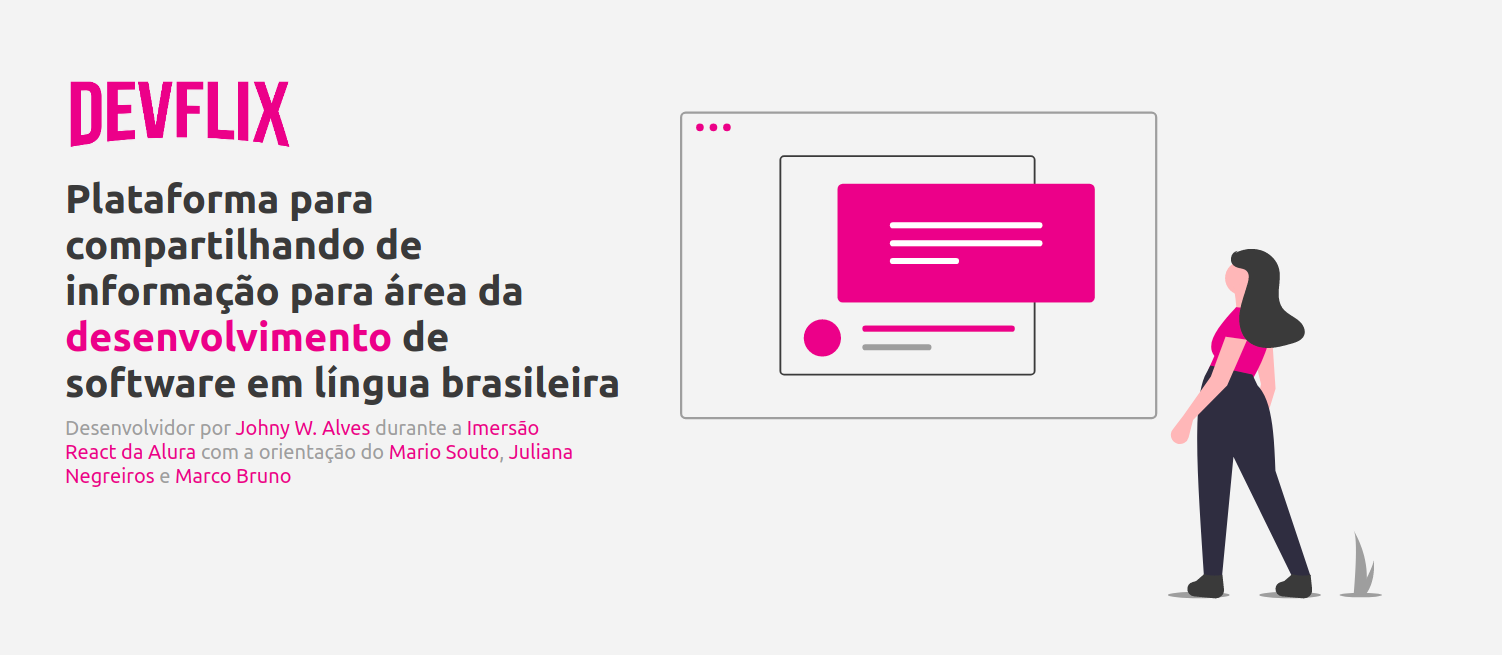
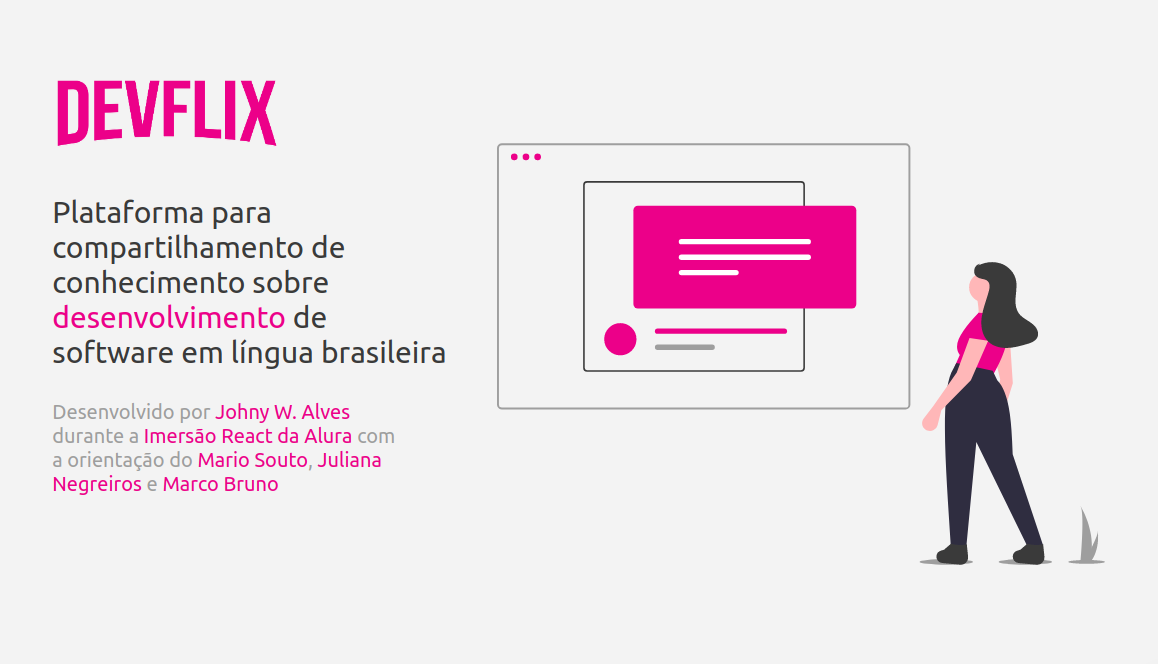
:speech_balloon: Ajuste dos texto da home

diff --git a/src/components/Menu/styles.tsx b/src/components/Menu/styles.tsx
@@ -1,4 +1,4 @@
-import styled, { css } from 'styled-components'
+import styled from 'styled-components'
 
 export const Nav = styled.nav`
   width: 100%;
@@ -66,31 +66,4 @@ export const Logo = styled.img`
     height: 4rem;
     margin: 1rem 0;
   }
-`
-
-export const Search = styled.input`
-  color: var(--black);
-  background-color: transparent;
-  font-size: 1.8rem;
-  padding: 0.5rem;
-  border: none;
-  border-bottom: 2px solid var(--black);
-  opacity: 0.5;
-  padding-right: 4rem;
-
-  &:focus {
-    border-bottom-color: var(--primary);
-    opacity: 1;
-  }
-
-  ${({ value }: HTMLInputElement) => {
-    const hasValue = value && value.length > 0
-    return (
-      hasValue &&
-      css`
-        border-bottom-color: var(--primary);
-        opacity: 1;
-      `
-    )
-  }}
 `

diff --git a/src/components/Menu/components/Search/IconSearch.tsx b/src/components/Menu/components/Search/IconSearch.tsx
@@ -1,0 +1,23 @@
+type IconSearchProps = {
+  className?: string
+}
+
+const IconSearch = ({ className }: IconSearchProps) => (
+  <svg
+    aria-hidden="true"
+    focusable="false"
+    data-prefix="fas"
+    data-icon="search"
+    role="img"
+    xmlns="http://www.w3.org/2000/svg"
+    viewBox="0 0 512 512"
+    className={className}
+  >
+    <path
+      fill="currentColor"
+      d="M505 442.7L405.3 343c-4.5-4.5-10.6-7-17-7H372c27.6-35.3 44-79.7 44-128C416 93.1 322.9 0 208 0S0 93.1 0 208s93.1 208 208 208c48.3 0 92.7-16.4 128-44v16.3c0 6.4 2.5 12.5 7 17l99.7 99.7c9.4 9.4 24.6 9.4 33.9 0l28.3-28.3c9.4-9.4 9.4-24.6.1-34zM208 336c-70.7 0-128-57.2-128-128 0-70.7 57.2-128 128-128 70.7 0 128 57.2 128 128 0 70.7-57.2 128-128 128z"
+    ></path>
+  </svg>
+)
+
+export default IconSearch

diff --git a/src/components/Menu/components/Search/styles.tsx b/src/components/Menu/components/Search/styles.tsx
@@ -1,0 +1,33 @@
+import styled from 'styled-components'
+
+import IconSearch from './IconSearch'
+
+export const Container = styled.div`
+  position: relative;
+  opacity: 0.5;
+
+  &:focus {
+    border-bottom-color: var(--primary);
+    opacity: 1;
+  }
+`
+
+export const Input = styled.input`
+  color: var(--black);
+  background-color: transparent;
+  font-size: 1.8rem;
+  padding: 0.5rem;
+  border: none;
+  border-radius: 0.25rem;
+  border-bottom: 2px solid var(--black);
+  padding-right: 4rem;
+`
+
+export const IconSearchInput = styled(IconSearch)`
+  color: var(--black);
+  position: absolute;
+  top: 0.5rem;
+  right: 0.5rem;
+  height: 1.75rem;
+  width: 1.75rem;
+`

diff --git a/src/components/BannerFronthead/index.tsx b/src/components/BannerFronthead/index.tsx
@@ -8,11 +8,11 @@ const BannerFronthead = () => {
       <Explain>
         <Logo id="logo_forehead" src="/img/logo.png" />
         <Title>
-          Plataforma para compartilhando de informação para área da{' '}
+          Plataforma para compartilhamento de conhecimento sobre{' '}
           <span>desenvolvimento</span> de software em língua brasileira
         </Title>
         <Description>
-          Desenvolvidor por{' '}
+          Desenvolvido por{' '}
           <a href="https://johnywalves.com.br" target="_blank" rel="noreferrer">
             Johny W. Alves
           </a>{' '}

diff --git a/src/components/Menu/index.tsx b/src/components/Menu/index.tsx
@@ -4,6 +4,7 @@ import Link from 'next/link'
 
 import Button from 'components/Button'
 
+//import Search from './components/Search'
 import { Nav, Logo, Commands, Astro } from './styles'
 
 type MenuProps = {
@@ -60,7 +61,7 @@ const Menu = ({ router }: MenuProps) => {
           viewForehead={viewForehead}
         />
       </Link>
-      {/*<Search type="text" placeholder="Pesquisa" />*/}
+      {/*<Search />*/}
       <Commands>
         {router.route !== '/cadastro/video' && (
           <Link href="/cadastro/video">

diff --git a/src/pages/_app.tsx b/src/pages/_app.tsx
@@ -17,7 +17,7 @@ function App({ Component, pageProps }: AppProps) {
         />
         <meta
           name="description"
-          content="Plataforma para compartilhando de informação para área da desenvolvimento de software em língua brasileira"
+          content="Plataforma para compartilhamento de conhecimento sobre desenvolvimento de software em língua brasileira"
         />
         <link
           rel="stylesheet"

diff --git a/src/components/Menu/components/Search/index.tsx b/src/components/Menu/components/Search/index.tsx
@@ -1,0 +1,10 @@
+import { Container, Input, IconSearchInput } from './styles'
+
+const Search = () => (
+  <Container>
+    <Input type="text" placeholder="Pesquisa" />
+    <IconSearchInput />
+  </Container>
+)
+
+export default Search
